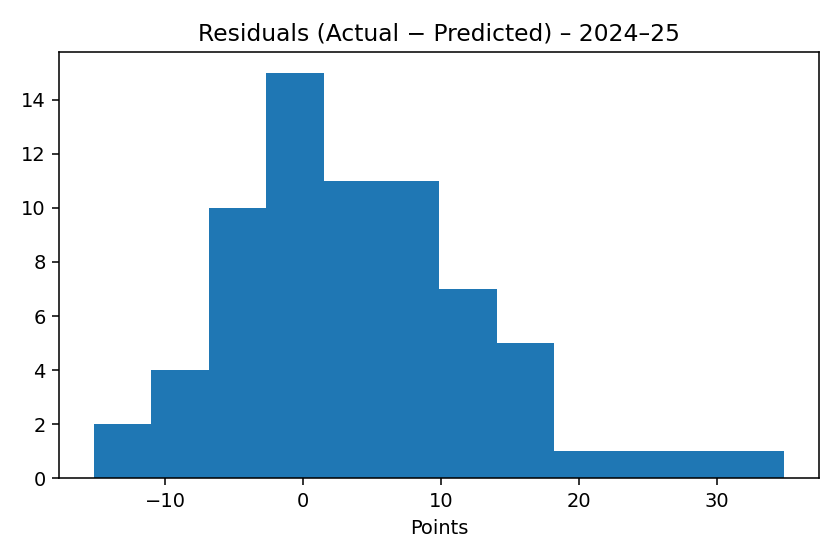
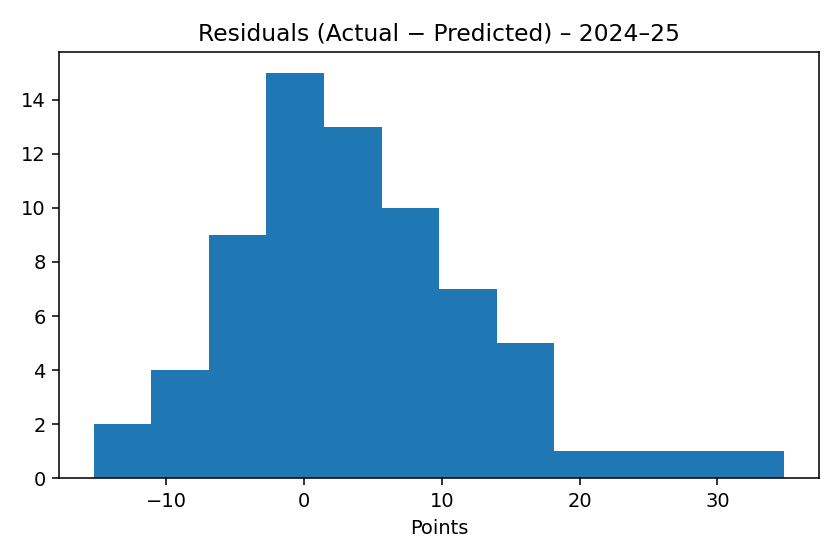
Implanted EWMA changes to ElasticNet model.

diff --git a/Data/src/Models/jokic_elasticnet.py b/Data/src/Models/jokic_elasticnet.py
@@ -5,7 +5,6 @@ import time
 import numpy as np
 import pandas as pd
 import matplotlib.pyplot as plt
-from pathlib import Path
 
 from pymongo import MongoClient, UpdateOne
 
@@ -14,6 +13,7 @@ from sklearn.preprocessing import StandardScaler, RobustScaler
 from sklearn.linear_model import ElasticNet
 from sklearn.model_selection import GridSearchCV
 from sklearn.metrics import mean_absolute_error, mean_squared_error, r2_score
+from sklearn.isotonic import IsotonicRegression
 
 try:
     from src.utils.repro import set_all_seeds
@@ -45,16 +45,27 @@ DB_NAME   = "sportsinsight"
 PRED_COLL = "predictions_2024_25"
 
 # modest, pre-declared HP grid (no optimization theater)
-PARAM_GRID = [{
-  "model": [ElasticNet(max_iter=50000, tol=1e-5, random_state=42)],
-  "model__alpha":    [0.02, 0.03, 0.05, 0.08, 0.10, 0.15],
-  "model__l1_ratio": [0.6, 0.7, 0.8, 0.9, 0.95, 1.0],
-}]
+PARAM_GRID = [
+  {
+    "model": [ElasticNet(max_iter=50000, tol=1e-5, random_state=42)],
+    "model__alpha":    [0.01, 0.02, 0.05, 0.08, 0.12, 0.2],
+    "model__l1_ratio": [0.1, 0.3, 0.5, 0.7],  # <- drop 0.9/1.0 for now
+  },
+]
 
-FEATURE_COLS = [
+BASE_FEATURES = [
     "PTS_L5","REB_L5","AST_L5","MIN_L5","FGA_L5","FTA_L5","FG3A_L5",
     "OPP_DEF_RATING","REST_DAYS","IS_HOME",
+    "IS_B2B","PTSxMIN_L5"     # keep your interaction + B2B
 ]
+
+# Start simple: EWMA(3) and Median(5) for PTS; both are shifted(1) to avoid leakage
+SMOOTH_FEATURES = [
+    "PTS_EWMA3",   # exponentially weighted mean, span=3
+    "PTS_MED5"     # rolling median over last 5 games
+]
+
+FEATURE_COLS = BASE_FEATURES + SMOOTH_FEATURES
 
 def fetch_gamelog(player_id: int, season: str) -> pd.DataFrame:
     """Use cached fetch, then normalize columns and attach SEASON."""
@@ -98,6 +109,27 @@ def parse_opp_abbr(matchup: str):
 def team_def_rating_map(season: str) -> dict:
     """Wrapper that uses cached LeagueDashTeamStats for DEF_RATING."""
     return team_def_rating_map_cached(season=season, sleep_sec=SLEEP_SEC)
+
+def add_smoothing_features(df: pd.DataFrame,
+                           target_col: str = "PTS",
+                           ewm_spans=(3,),
+                           med_windows=(5,)) -> pd.DataFrame:
+    """
+    Adds non-leaky smoothing features on `target_col`.
+    - EWMA uses .ewm(span=s, adjust=False).mean().shift(1)
+    - MED uses .rolling(w).median().shift(1)
+    Assumes df is already sorted by GAME_DATE ascending.
+    """
+    out = df.copy()
+    for s in ewm_spans:
+        out[f"{target_col}_EWMA{s}"] = (
+            out[target_col].ewm(span=s, adjust=False).mean().shift(1)
+        )
+    for w in med_windows:
+        out[f"{target_col}_MED{w}"] = (
+            out[target_col].rolling(w).median().shift(1)
+        )
+    return out
 
 def build_features(df_all: pd.DataFrame) -> pd.DataFrame:
     """Compute past-only features across concatenated seasons, then drop rows missing history."""
@@ -145,13 +177,13 @@ def build_features(df_all: pd.DataFrame) -> pd.DataFrame:
 
     # Rolling L5 means (shifted) across full chronology
     df_all = df_all.sort_values("GAME_DATE").reset_index(drop=True)
-    stats_for_rolling = ["PTS", "REB", "AST", "MIN", "FGA", "FTA", "FG3A"]
-    windows = [3, 5]
+    for col in ["PTS","REB","AST","MIN","FGA","FTA","FG3A"]:
+        if col in df_all.columns:
+            df_all[f"{col}_L5"] = df_all[col].rolling(5).mean().shift(1)
+            df_all[f"{col}_L3"] = df_all[col].rolling(3).mean().shift(1)
 
-    for stat in stats_for_rolling:
-        if stat in df_all.columns:
-            for w in windows:
-                df_all[f"{stat}_L{w}"] = df_all[stat].rolling(window=w).mean().shift(1)
+    df_all["PTS_EWMA3"] = df_all["PTS"].ewm(span=3, adjust=False).mean().shift(1)
+    df_all["PTS_MED5"]  = df_all["PTS"].rolling(5).median().shift(1)
     
     if {"PTS_L5", "MIN_L5"}.issubset(df_all.columns):
         df_all["PTSxMIN_L5"] = df_all["PTS_L5"] * df_all["MIN_L5"]
@@ -198,8 +230,6 @@ def evaluate_and_report(y_true, y_pred, y_l5, y_season_td):
                 Skill_L5=skill_l5, Skill_STD=skill_std)
 
 def save_plots(pred_df: pd.DataFrame):
-    output_dir = Path("./plots")
-    output_dir.mkdir(exist_ok=True)
 
     # Pred vs Actual
     plt.figure(figsize=(10,5))
@@ -211,7 +241,7 @@ def save_plots(pred_df: pd.DataFrame):
     plt.ylabel("Points")
     plt.tight_layout()
     plt.legend()
-    plt.savefig(output_dir / f"{PLAYER_NAME.replace(' ', '_')}_pred_vs_actual_2024_25.png", dpi=140)
+    plt.savefig("jokic_pred_vs_actual_2024_25.png", dpi=140)
 
     # Residuals histogram
     plt.figure(figsize=(6,4))
@@ -220,7 +250,7 @@ def save_plots(pred_df: pd.DataFrame):
     plt.title("Residuals (Actual − Predicted) – 2024–25")
     plt.xlabel("Points")
     plt.tight_layout()
-    plt.savefig(output_dir / f"{PLAYER_NAME.replace(' ', '_')}_pred_vs_actual_2024_25.png", dpi=140)
+    plt.savefig("jokic_residuals_hist_2024_25.png", dpi=140)
 
 def save_predictions_to_mongo(pred_df: pd.DataFrame):
     try:
@@ -332,12 +362,41 @@ if __name__ == "__main__":
     y_val = train.iloc[last_va_idx]["PTS"].values
 
     y_val_hat = best_model.predict(X_val)
-    A = np.vstack([np.ones_like(y_val_hat), y_val_hat]).T
-    a, b = np.linalg.lstsq(A, y_val, rcond=None)[0]
-    print(f"Calibration: y ≈ {a:.3f} + {b:.3f}·ŷ  (on last validation fold)")
+
+    # guard against degenerate variance before computing corr
+    if np.std(y_val_hat) < 1e-8 or np.std(y_val) < 1e-8:
+        corr = np.nan
+    else:
+        corr = float(np.corrcoef(y_val_hat, y_val)[0, 1])
+
+    a, b = 0.0, 1.0                      # identity by default (no calibration)
+    calib_msg = "identity (no calibration)"
+
+    # initialize temps so they exist even if the block is skipped
+    a_tmp, b_tmp = np.nan, np.nan
+
+    if np.isfinite(corr) and corr > 0.2:
+        A = np.column_stack([np.ones_like(y_val_hat), y_val_hat])
+        try:
+            a_tmp, b_tmp = np.linalg.lstsq(A, y_val, rcond=None)[0]
+        except np.linalg.LinAlgError:
+            a_tmp, b_tmp = np.nan, np.nan
+
+    # only accept a reasonable positive slope
+    if np.isfinite(b_tmp) and 0.25 <= b_tmp <= 1.75:
+        a, b = float(a_tmp), float(b_tmp)
+        calib_msg = f"y ≈ {a:.3f} + {b:.3f}·ŷ"
 
     y_pred_raw = best_model.predict(X_test)
     y_pred = np.clip(a + b * y_pred_raw, 0, 80)
+    print(f"Calibration used: {calib_msg}, corr={corr if np.isfinite(corr) else float('nan'):.3f}")
+
+    if "PTS_EWMA3" in test.columns:
+        mae_ewma = mean_absolute_error(y_test, test["PTS_EWMA3"].values)
+        print(f"Baseline MAE (EWMA3): {mae_ewma:.3f}")
+    if "PTS_MED5" in test.columns:
+        mae_med5 = mean_absolute_error(y_test, test["PTS_MED5"].values)
+        print(f"Baseline MAE (MED5):  {mae_med5:.3f}")
 
     # 6) Evaluate on 2024–25
     metrics = evaluate_and_report(y_test, y_pred, l5_base, std_base)
@@ -347,8 +406,9 @@ if __name__ == "__main__":
     out["PRED_PTS"]     = y_pred
     out["L5_BASELINE"]  = l5_base
     out["STD_BASELINE"] = std_base
-    out.to_csv(f"{PLAYER_NAME.replace(' ', '_')}_elasticnet_2024_25_predictions.csv", index=False)
-    print("Saved CSV: jokic_elasticnet_2024_25_predictions.csv")
+    csv_path = f"{PLAYER_NAME.replace(' ', '_')}_elasticnet_2024_25_predictions.csv"
+    out.to_csv(csv_path, index=False)
+    print(f"Saved CSV: {csv_path}")
 
     save_plots(out)
     print("Saved plots: jokic_pred_vs_actual_2024_25.png, jokic_residuals_hist_2024_25.png")
